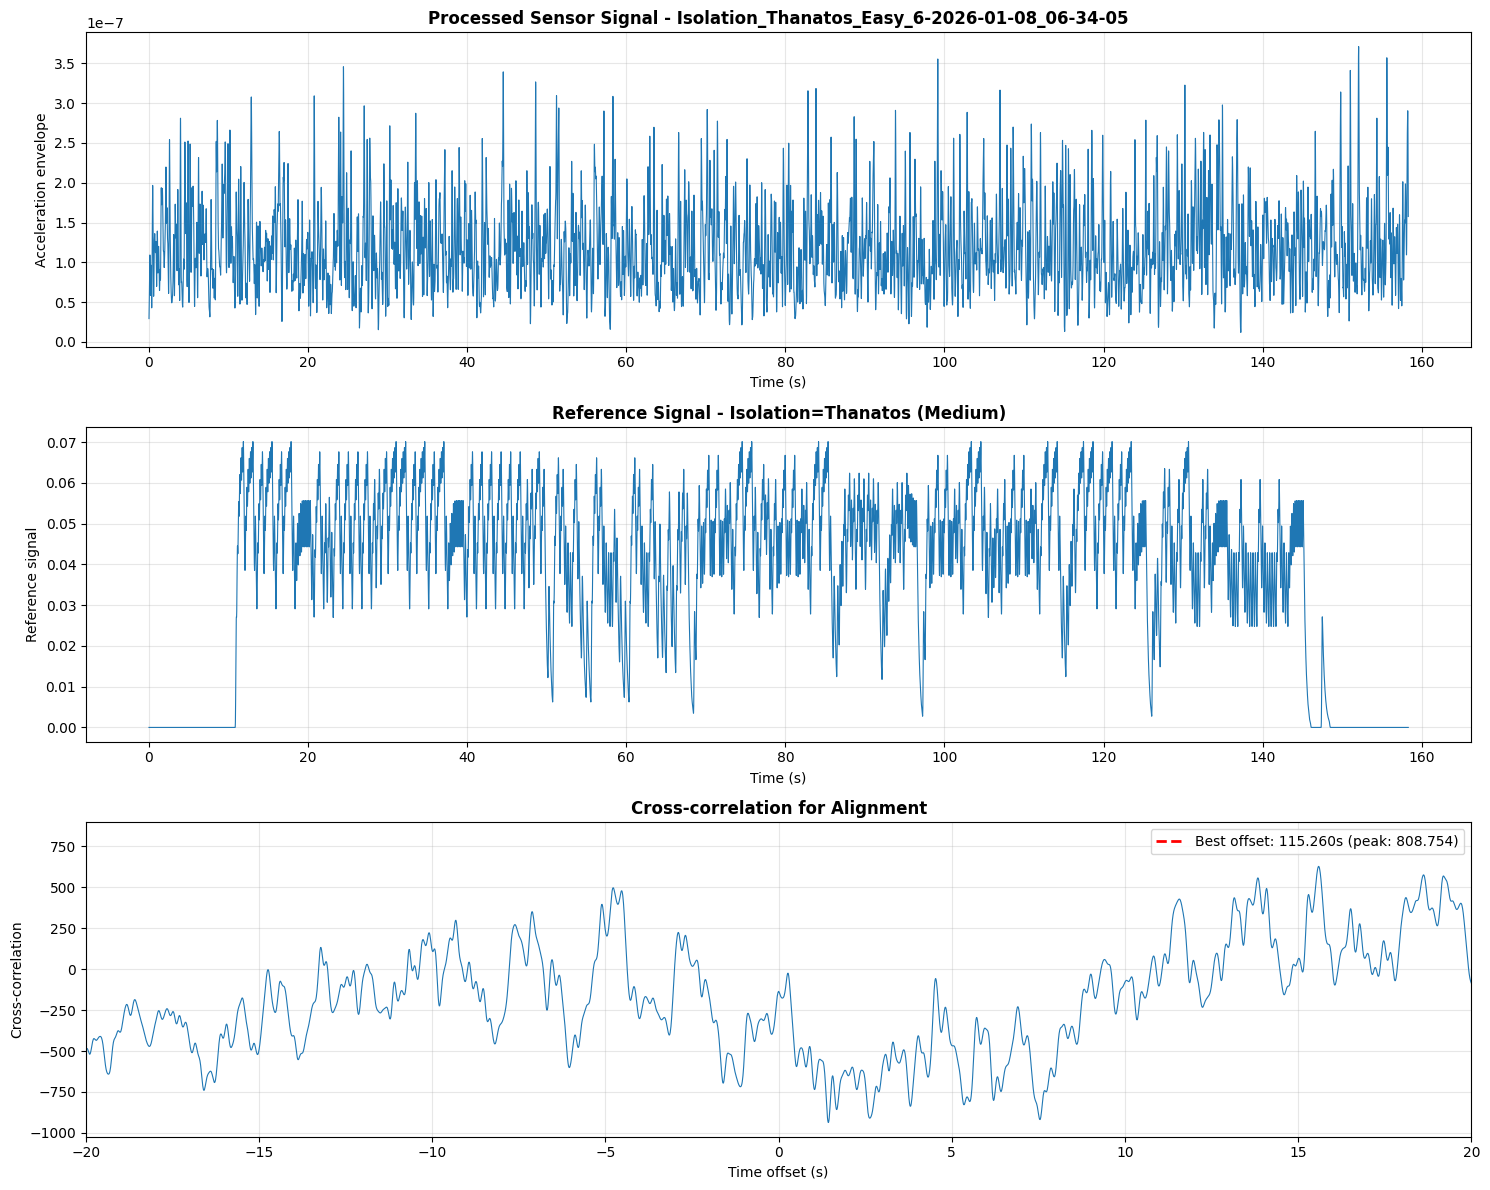
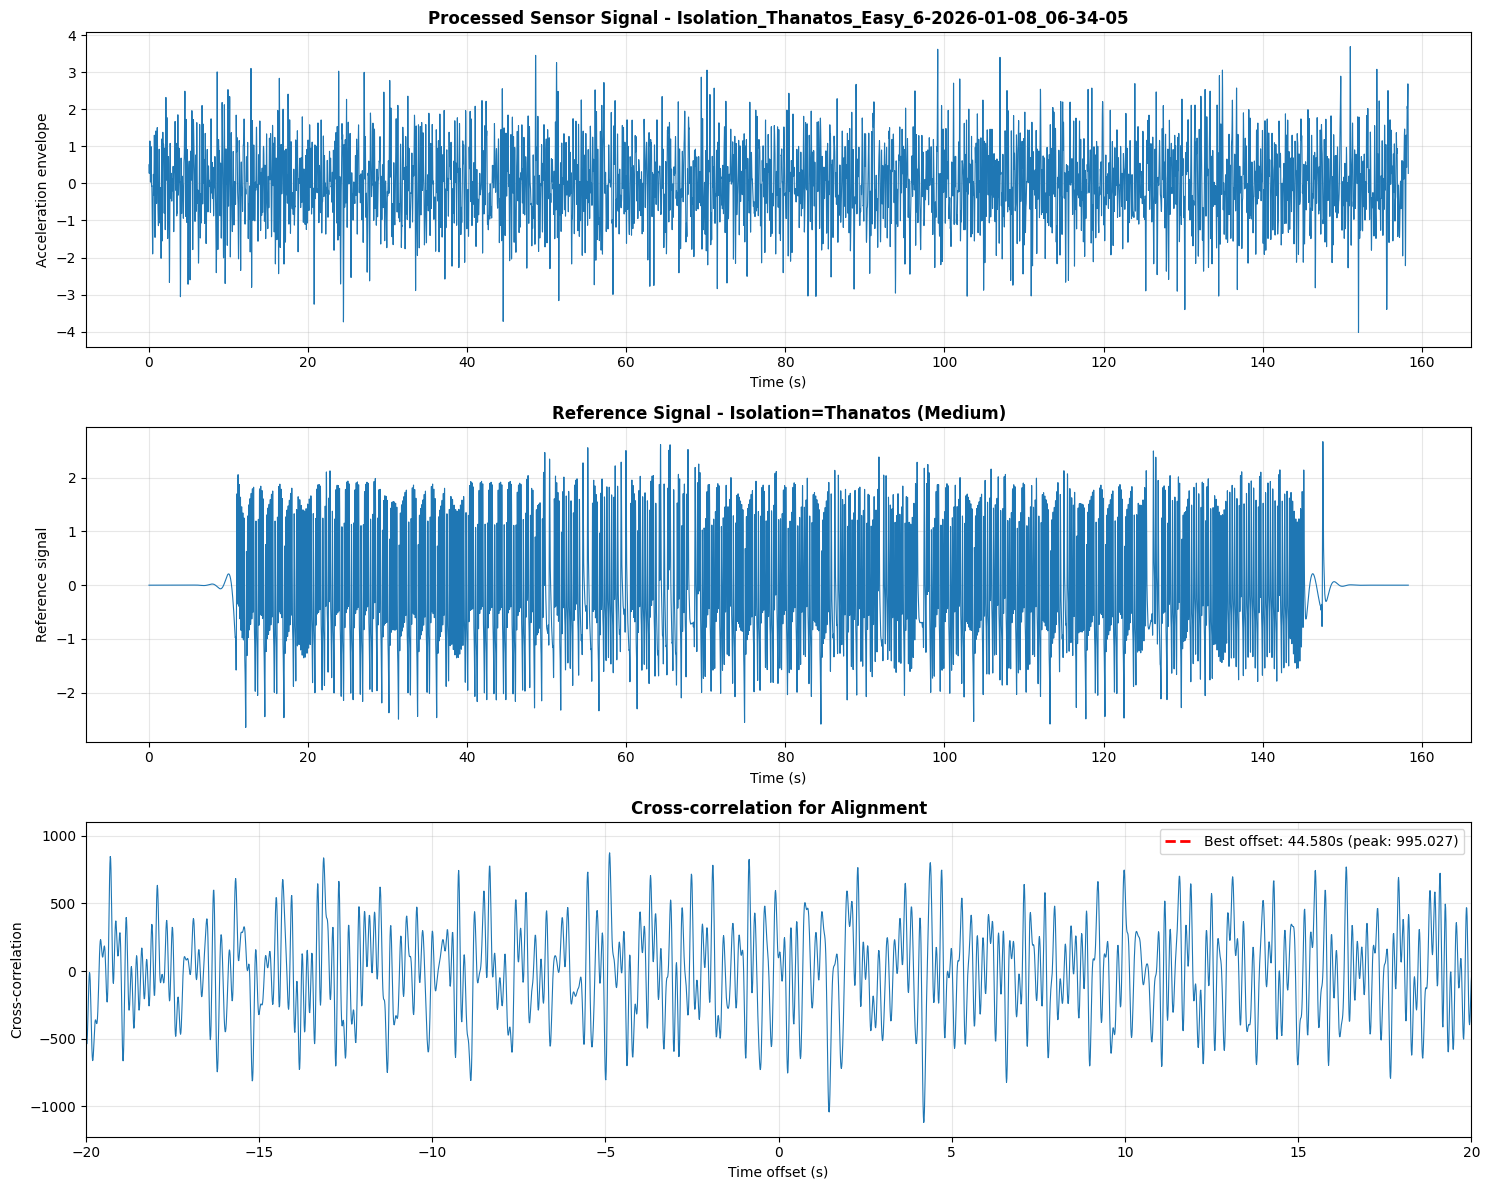
Implement explicit formula-based approach: step onsets + causal impulse + bandpass + normalization

diff --git a/experiments/03_align_signals.py b/experiments/03_align_signals.py
@@ -21,12 +21,12 @@ import importlib.util
 
 # Signal processing constants
 BANDPASS_LOW_HZ = 0.5  # Low cutoff for bandpass filter (Hz)
-BANDPASS_HIGH_HZ = 10.0  # High cutoff for bandpass filter (Hz)
+BANDPASS_HIGH_HZ = 8.0  # High cutoff for bandpass filter (Hz) - matched to typical body motion
 BANDPASS_ORDER = 4  # Butterworth filter order
 
-# Biomechanical model constants for impulse response
-BODY_DECAY_TIME_SEC = 0.30  # Decay time constant for damped body response (300ms - longer for better SNR)
-IMPULSE_DURATION_SEC = 1.0  # Total duration of impulse response (1000ms - capture full response)
+# Biomechanical model constants for impulse response (from research on human biomechanics)
+BODY_DECAY_TIME_SEC = 0.10  # Decay time constant τ for damped body response (80-150ms typical)
+IMPULSE_DURATION_SEC = 0.8  # Total duration of impulse response (capture full decay)
 
 # Load the parse_stepmania module dynamically
 spec = importlib.util.spec_from_file_location("parse_sm", Path(__file__).parent / "02_parse_stepmania.py")
@@ -66,62 +66,76 @@ def compute_acceleration_magnitude(df):
 
 
 def create_reference_signal(notes, duration, sample_rate=100):
-    """Create a reference signal from note timings using causal impulse response.
+    """Create reference signal using proper biomechanical model per explicit formula.
     
-    Models each foot press as a damped inertial response of the body, not an
-    instantaneous impulse. This creates a "pseudo-acceleration" signal that is
-    physically comparable to the real accelerometer signal.
+    Implements the mathematically correct transformation:
+    1. Step onsets are the discrete note events e_i at times t_i
+    2. Apply causal impulse response: h(t) = exp(-t/τ) · 1_{t≥0} with τ ≈ 80-150ms
+    3. Generate pseudo-acceleration: p(t) = Σ_i h(t - t_i)
+    4. Apply bandpass filter matching accelerometer: BandPass_{[0.5,8]}(p(t))
+    5. Normalize: (p(t) - μ) / σ
     
-    The reference signal is kept as positive-only (envelope) to match the sensor
-    envelope representation, avoiding the sign mismatch that would occur with
-    oscillating filtered signals.
+    This respects causality, damping, and human biomechanics for sharp correlation peaks.
     
     Args:
-        notes: List of SMNote objects
+        notes: List of SMNote objects (discrete step onset events)
         duration: Duration of signal in seconds
         sample_rate: Samples per second
     
     Returns:
-        time array and signal array
+        time array and normalized pseudo-acceleration signal
     """
     num_samples = int(duration * sample_rate)
     time = np.linspace(0, duration, num_samples)
-    ref_signal = np.zeros(num_samples)
     
-    # Place a spike at each note
+    # Step 1: Notes ARE the step onsets (discrete events e_i at times t_i)
+    # Create impulse train at note times
+    step_onsets = np.zeros(num_samples)
     for note in notes:
         idx = int(note.time * sample_rate)
         if 0 <= idx < num_samples:
-            ref_signal[idx] = 1.0
+            step_onsets[idx] = 1.0
     
-    # Create causal impulse response: damped exponential decay
-    # Models the physical response of body mass + damping to foot impact
-    # Using longer decay to match the averaged nature of sensor envelope
+    # Step 2: Create causal impulse response h(t) = exp(-t/τ) for t ≥ 0
     impulse_samples = int(IMPULSE_DURATION_SEC * sample_rate)
     t_impulse = np.arange(impulse_samples) / sample_rate
-    
-    # Causal impulse response: exponential decay starting at impact
-    # h(t) = exp(-t/tau) for t >= 0
     impulse_response = np.exp(-t_impulse / BODY_DECAY_TIME_SEC)
     
-    # Normalize to preserve energy
+    # Normalize impulse response to unit energy
     impulse_response = impulse_response / np.sum(impulse_response)
     
-    # Convolve with impulse response to create pseudo-acceleration signal
-    ref_signal = signal.convolve(ref_signal, impulse_response, mode='same')
+    # Step 3: Generate pseudo-acceleration by convolution p(t) = Σ_i h(t - t_i)
+    pseudo_accel = signal.convolve(step_onsets, impulse_response, mode='same')
     
-    # Smooth to match sensor envelope smoothing (200ms window in sensor processing)
-    # This reduces high-frequency noise and improves SNR
-    window_size = int(0.2 * sample_rate)  # 200ms - match sensor envelope smoothing
-    if window_size > 1:
-        smooth_window = signal.windows.hann(window_size) / sum(signal.windows.hann(window_size))
-        ref_signal = signal.convolve(ref_signal, smooth_window, mode='same')
+    # Step 4: Apply bandpass filter matching accelerometer bandwidth [0.5, 8] Hz
+    # This removes DC drift and very high frequency noise
+    sos = signal.butter(BANDPASS_ORDER, [BANDPASS_LOW_HZ, BANDPASS_HIGH_HZ], 
+                        btype='band', fs=sample_rate, output='sos')
+    pseudo_accel_filtered = signal.sosfiltfilt(sos, pseudo_accel)
+    
+    # Step 5: Local normalization (z-score): (p(t) - μ) / σ
+    # This ensures the reference signal has zero mean and unit variance
+    mean_val = np.mean(pseudo_accel_filtered)
+    std_val = np.std(pseudo_accel_filtered)
+    if std_val > 1e-10:
+        ref_signal = (pseudo_accel_filtered - mean_val) / std_val
+    else:
+        ref_signal = pseudo_accel_filtered - mean_val
     
     return time, ref_signal
 
 
 def preprocess_sensor_signal(time_ms, magnitude, target_sample_rate=100):
-    """Preprocess sensor signal: resample and filter."""
+    """Preprocess sensor signal to match reference signal processing.
+    
+    Applies the same processing as the reference signal:
+    1. Resample to target rate
+    2. Remove DC component  
+    3. Apply bandpass filter [0.5, 8] Hz
+    4. Normalize (z-score)
+    
+    Returns filtered and normalized acceleration signal, not envelope.
+    """
     # Convert time to seconds
     time_sec = time_ms / 1000.0
     
@@ -131,31 +145,33 @@ def preprocess_sensor_signal(time_ms, magnitude, target_sample_rate=100):
     new_time = np.linspace(0, duration, num_samples)
     resampled = np.interp(new_time, time_sec - time_sec[0], magnitude)
     
-    # Remove DC component and apply bandpass filter
+    # Remove DC component
     resampled = resampled - np.mean(resampled)
     
-    # Bandpass filter to focus on human movement frequencies
-    sos = signal.butter(BANDPASS_ORDER, [BANDPASS_LOW_HZ, BANDPASS_HIGH_HZ], 
+    # Apply bandpass filter matching reference signal [0.5, 8] Hz
+    sos = signal.butter(BANDPASS_ORDER, [BANDPASS_LOW_HZ, BANDPASS_HIGH_HZ],
                         btype='band', fs=target_sample_rate, output='sos')
     filtered = signal.sosfiltfilt(sos, resampled)
     
-    # Compute envelope (absolute value + smoothing)
-    envelope = np.abs(filtered)
-    window_size = int(0.2 * target_sample_rate)  # 200ms window
-    envelope = signal.convolve(envelope, signal.windows.hann(window_size)/sum(signal.windows.hann(window_size)), mode='same')
+    # Normalize (z-score) to match reference signal normalization
+    mean_val = np.mean(filtered)
+    std_val = np.std(filtered)
+    if std_val > 1e-10:
+        normalized = (filtered - mean_val) / std_val
+    else:
+        normalized = filtered - mean_val
     
-    return new_time, envelope
+    return new_time, normalized
 
 
 def find_alignment(sensor_signal, ref_signal, sample_rate=100):
-    """Find the best time offset using cross-correlation."""
-    # Normalize signals
-    sensor_norm = (sensor_signal - np.mean(sensor_signal)) / (np.std(sensor_signal) + 1e-8)
-    ref_norm = (ref_signal - np.mean(ref_signal)) / (np.std(ref_signal) + 1e-8)
+    """Find the best time offset using cross-correlation.
     
-    # Compute cross-correlation
-    corr = correlate(sensor_norm, ref_norm, mode='full')
-    lags = np.arange(-len(ref_norm) + 1, len(sensor_norm))
+    Both signals are already normalized (z-score), so we can correlate directly.
+    """
+    # Signals are already normalized, compute cross-correlation directly
+    corr = correlate(sensor_signal, ref_signal, mode='full')
+    lags = np.arange(-len(ref_signal) + 1, len(sensor_signal))
     
     # Convert lags to time
     time_lags = lags / sample_rate
